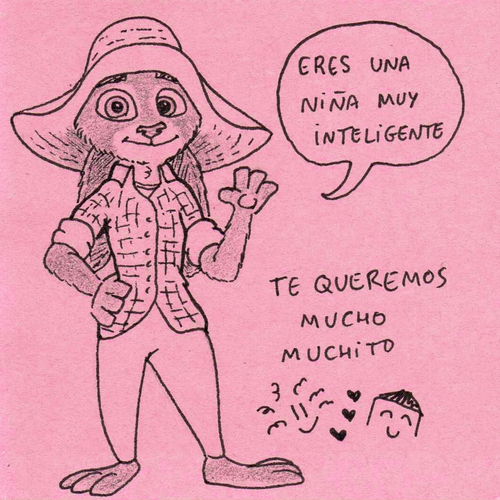
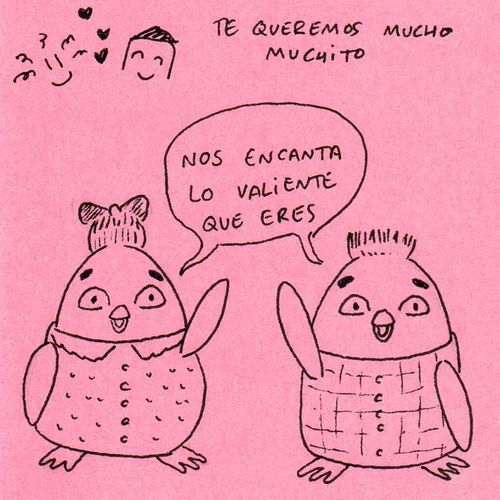
Add new notes

diff --git a/notas/detalle/2026-02-26.html b/notas/detalle/2026-02-26.html
@@ -1,0 +1,47 @@
+<!DOCTYPE html>
+<html lang="es">
+<head>
+    <meta charset="UTF-8">
+    <meta name="viewport" content="width=device-width, initial-scale=1.0">
+    <title>2026-02-26 – Inksmael</title>
+    <link rel="stylesheet" href="/resources/css/styles.css">
+</head>
+<body>
+
+<header class="site-header">
+    <div class="container">
+        <a href="/" class="site-top-title">
+            <img src="/resources/img/logo.svg" alt="Logotipo Inksmael" class="site-logo">
+        </a>
+    </div>
+</header>
+
+
+<div class="container detail-container">
+
+    <div class="container notes-header">
+        <img src="/resources/img/logo_notas.svg" alt="Notas" class="notes-header-logo">
+    </div>
+
+    <div class="detail-image-nav">
+        <img src="/resources/img/notas/2026-02-26.jpg" width="500" height="500"
+             alt="Nota del 26/02/2026" class="detail-image">
+
+        <a class="img-nav img-nav-left" href="/notas/detalle/2026-02-27.html" title="Ver la siguiente nota" aria-label="Siguiente nota"></a>
+
+        <a class="img-nav img-nav-right" href="/notas/detalle/2026-02-25.html" title="Ver la nota anterior" aria-label="Nota anterior"></a>
+    </div>
+
+    <div class="detail-caption">Nota del 26/02/2026</div>
+
+    <div class="detail-nav"><a class="nav-left" href="/notas/detalle/2026-02-27.html" title="Ver la siguiente nota">&lt; siguiente</a> | <a href="/notas/" title="Volver al listado completo de notas">todas</a> | <a class="nav-right" href="/notas/detalle/2026-02-25.html" title="Ver la nota anterior">anterior &gt;</a></div>
+</div>
+
+<footer class="site-footer">
+    <div class="container">
+        <p>© Inksmael</p>
+    </div>
+</footer>
+
+</body>
+</html>

diff --git a/notas/detalle/2026-02-27.html b/notas/detalle/2026-02-27.html
@@ -1,0 +1,47 @@
+<!DOCTYPE html>
+<html lang="es">
+<head>
+    <meta charset="UTF-8">
+    <meta name="viewport" content="width=device-width, initial-scale=1.0">
+    <title>2026-02-27 – Inksmael</title>
+    <link rel="stylesheet" href="/resources/css/styles.css">
+</head>
+<body>
+
+<header class="site-header">
+    <div class="container">
+        <a href="/" class="site-top-title">
+            <img src="/resources/img/logo.svg" alt="Logotipo Inksmael" class="site-logo">
+        </a>
+    </div>
+</header>
+
+
+<div class="container detail-container">
+
+    <div class="container notes-header">
+        <img src="/resources/img/logo_notas.svg" alt="Notas" class="notes-header-logo">
+    </div>
+
+    <div class="detail-image-nav">
+        <img src="/resources/img/notas/2026-02-27.jpg" width="500" height="500"
+             alt="Nota del 27/02/2026" class="detail-image">
+
+        <a class="img-nav img-nav-left" href="/notas/detalle/2026-03-02.html" title="Ver la siguiente nota" aria-label="Siguiente nota"></a>
+
+        <a class="img-nav img-nav-right" href="/notas/detalle/2026-02-26.html" title="Ver la nota anterior" aria-label="Nota anterior"></a>
+    </div>
+
+    <div class="detail-caption">Nota del 27/02/2026</div>
+
+    <div class="detail-nav"><a class="nav-left" href="/notas/detalle/2026-03-02.html" title="Ver la siguiente nota">&lt; siguiente</a> | <a href="/notas/" title="Volver al listado completo de notas">todas</a> | <a class="nav-right" href="/notas/detalle/2026-02-26.html" title="Ver la nota anterior">anterior &gt;</a></div>
+</div>
+
+<footer class="site-footer">
+    <div class="container">
+        <p>© Inksmael</p>
+    </div>
+</footer>
+
+</body>
+</html>

diff --git a/notas/detalle/2026-03-02.html b/notas/detalle/2026-03-02.html
@@ -1,0 +1,47 @@
+<!DOCTYPE html>
+<html lang="es">
+<head>
+    <meta charset="UTF-8">
+    <meta name="viewport" content="width=device-width, initial-scale=1.0">
+    <title>2026-03-02 – Inksmael</title>
+    <link rel="stylesheet" href="/resources/css/styles.css">
+</head>
+<body>
+
+<header class="site-header">
+    <div class="container">
+        <a href="/" class="site-top-title">
+            <img src="/resources/img/logo.svg" alt="Logotipo Inksmael" class="site-logo">
+        </a>
+    </div>
+</header>
+
+
+<div class="container detail-container">
+
+    <div class="container notes-header">
+        <img src="/resources/img/logo_notas.svg" alt="Notas" class="notes-header-logo">
+    </div>
+
+    <div class="detail-image-nav">
+        <img src="/resources/img/notas/2026-03-02.jpg" width="500" height="500"
+             alt="Nota del 02/03/2026" class="detail-image">
+
+        <span class="img-nav img-nav-left disabled" aria-hidden="true"></span>
+
+        <a class="img-nav img-nav-right" href="/notas/detalle/2026-02-27.html" title="Ver la nota anterior" aria-label="Nota anterior"></a>
+    </div>
+
+    <div class="detail-caption">Nota del 02/03/2026</div>
+
+    <div class="detail-nav"><span class="nav-left disabled" title="No hay siguiente nota">&lt; siguiente</span> | <a href="/notas/" title="Volver al listado completo de notas">todas</a> | <a class="nav-right" href="/notas/detalle/2026-02-27.html" title="Ver la nota anterior">anterior &gt;</a></div>
+</div>
+
+<footer class="site-footer">
+    <div class="container">
+        <p>© Inksmael</p>
+    </div>
+</footer>
+
+</body>
+</html>

diff --git a/notas/detalle/2026-02-25.html b/notas/detalle/2026-02-25.html
@@ -27,14 +27,14 @@
         <img src="/resources/img/notas/2026-02-25.jpg" width="500" height="500"
              alt="Nota del 25/02/2026" class="detail-image">
 
-        <span class="img-nav img-nav-left disabled" aria-hidden="true"></span>
+        <a class="img-nav img-nav-left" href="/notas/detalle/2026-02-26.html" title="Ver la siguiente nota" aria-label="Siguiente nota"></a>
 
         <a class="img-nav img-nav-right" href="/notas/detalle/2026-02-24.html" title="Ver la nota anterior" aria-label="Nota anterior"></a>
     </div>
 
     <div class="detail-caption">Nota del 25/02/2026</div>
 
-    <div class="detail-nav"><span class="nav-left disabled" title="No hay siguiente nota">&lt; siguiente</span> | <a href="/notas/" title="Volver al listado completo de notas">todas</a> | <a class="nav-right" href="/notas/detalle/2026-02-24.html" title="Ver la nota anterior">anterior &gt;</a></div>
+    <div class="detail-nav"><a class="nav-left" href="/notas/detalle/2026-02-26.html" title="Ver la siguiente nota">&lt; siguiente</a> | <a href="/notas/" title="Volver al listado completo de notas">todas</a> | <a class="nav-right" href="/notas/detalle/2026-02-24.html" title="Ver la nota anterior">anterior &gt;</a></div>
 </div>
 
 <footer class="site-footer">

diff --git a/notas/index.html b/notas/index.html
@@ -25,6 +25,21 @@
 
     <div class="notes-grid">
         <div class="note-thumb">
+            <a href="/notas/detalle/2026-03-02.html">
+                <img class="lazy" width="250" height="250" data-src="/resources/img/notas_thumbs/2026-03-02.jpg" alt="Nota del 02/03/2026" title="Nota del 02/03/2026">
+            </a>
+        </div>
+        <div class="note-thumb">
+            <a href="/notas/detalle/2026-02-27.html">
+                <img class="lazy" width="250" height="250" data-src="/resources/img/notas_thumbs/2026-02-27.jpg" alt="Nota del 27/02/2026" title="Nota del 27/02/2026">
+            </a>
+        </div>
+        <div class="note-thumb">
+            <a href="/notas/detalle/2026-02-26.html">
+                <img class="lazy" width="250" height="250" data-src="/resources/img/notas_thumbs/2026-02-26.jpg" alt="Nota del 26/02/2026" title="Nota del 26/02/2026">
+            </a>
+        </div>
+        <div class="note-thumb">
             <a href="/notas/detalle/2026-02-25.html">
                 <img class="lazy" width="250" height="250" data-src="/resources/img/notas_thumbs/2026-02-25.jpg" alt="Nota del 25/02/2026" title="Nota del 25/02/2026">
             </a>
